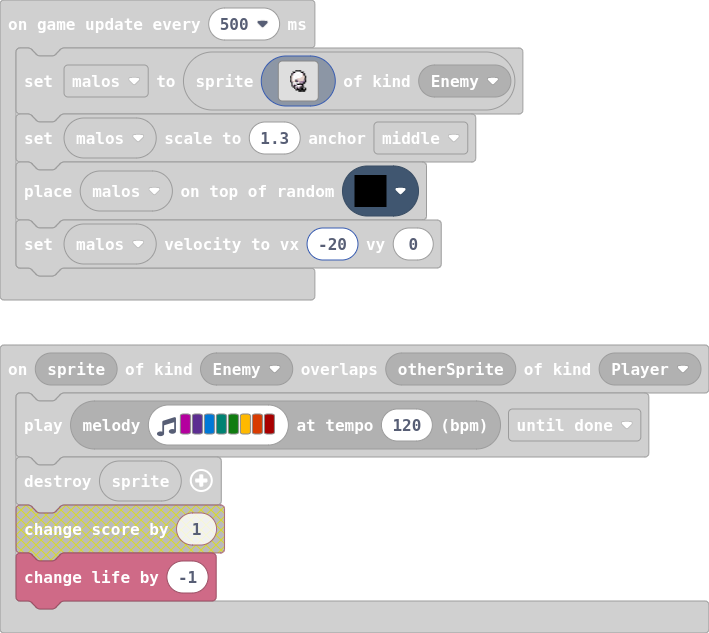
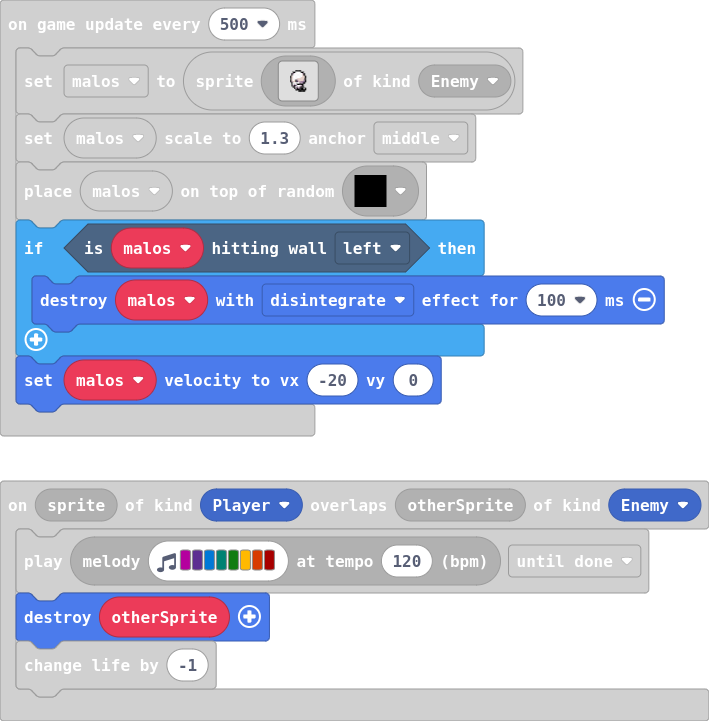
enemy version 2

diff --git a/main.ts b/main.ts
@@ -5,9 +5,9 @@ controller.up.onEvent(ControllerButtonEvent.Pressed, function () {
         Petronila.vy = 0
     }
 })
-sprites.onOverlap(SpriteKind.Enemy, SpriteKind.Player, function (sprite, otherSprite) {
+sprites.onOverlap(SpriteKind.Player, SpriteKind.Enemy, function (sprite, otherSprite) {
     music.play(music.stringPlayable("C D E F G A B C5 ", 120), music.PlaybackMode.UntilDone)
-    sprites.destroy(sprite)
+    sprites.destroy(otherSprite)
     info.changeLifeBy(-1)
 })
 let malos: Sprite = null
@@ -66,5 +66,8 @@ game.onUpdateInterval(500, function () {
         `, SpriteKind.Enemy)
     malos.setScale(1.3, ScaleAnchor.Middle)
     tiles.placeOnRandomTile(malos, assets.tile`myTile2`)
+    if (malos.isHittingTile(CollisionDirection.Left)) {
+        sprites.destroy(malos, effects.disintegrate, 100)
+    }
     malos.setVelocity(-20, 0)
 })
